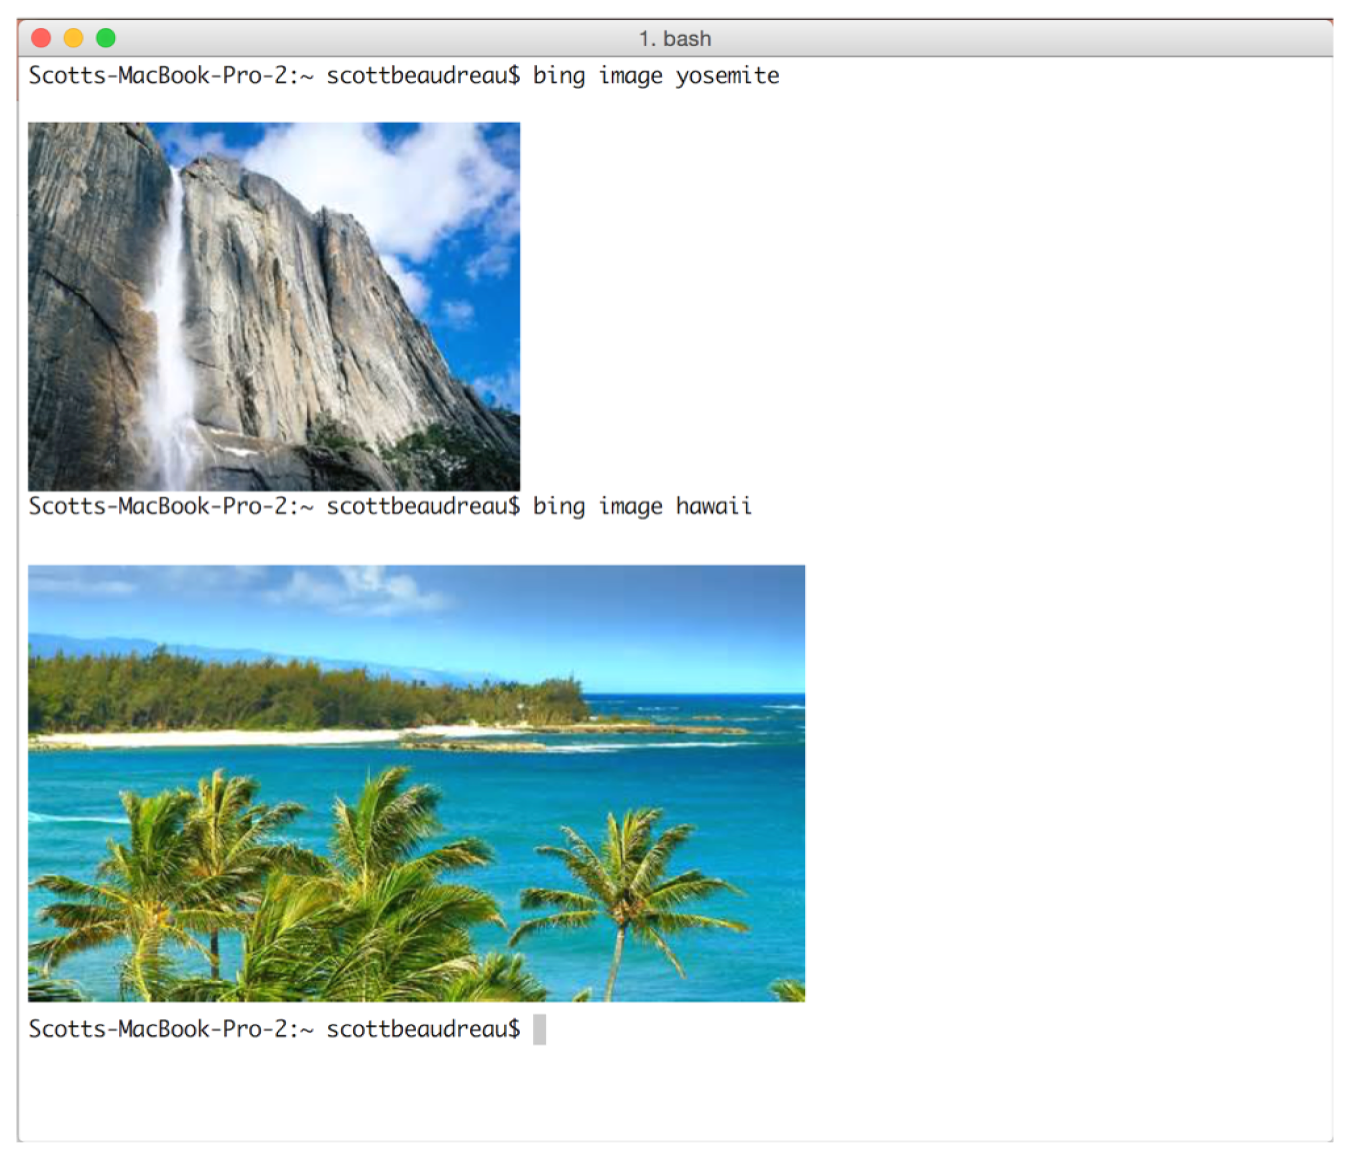
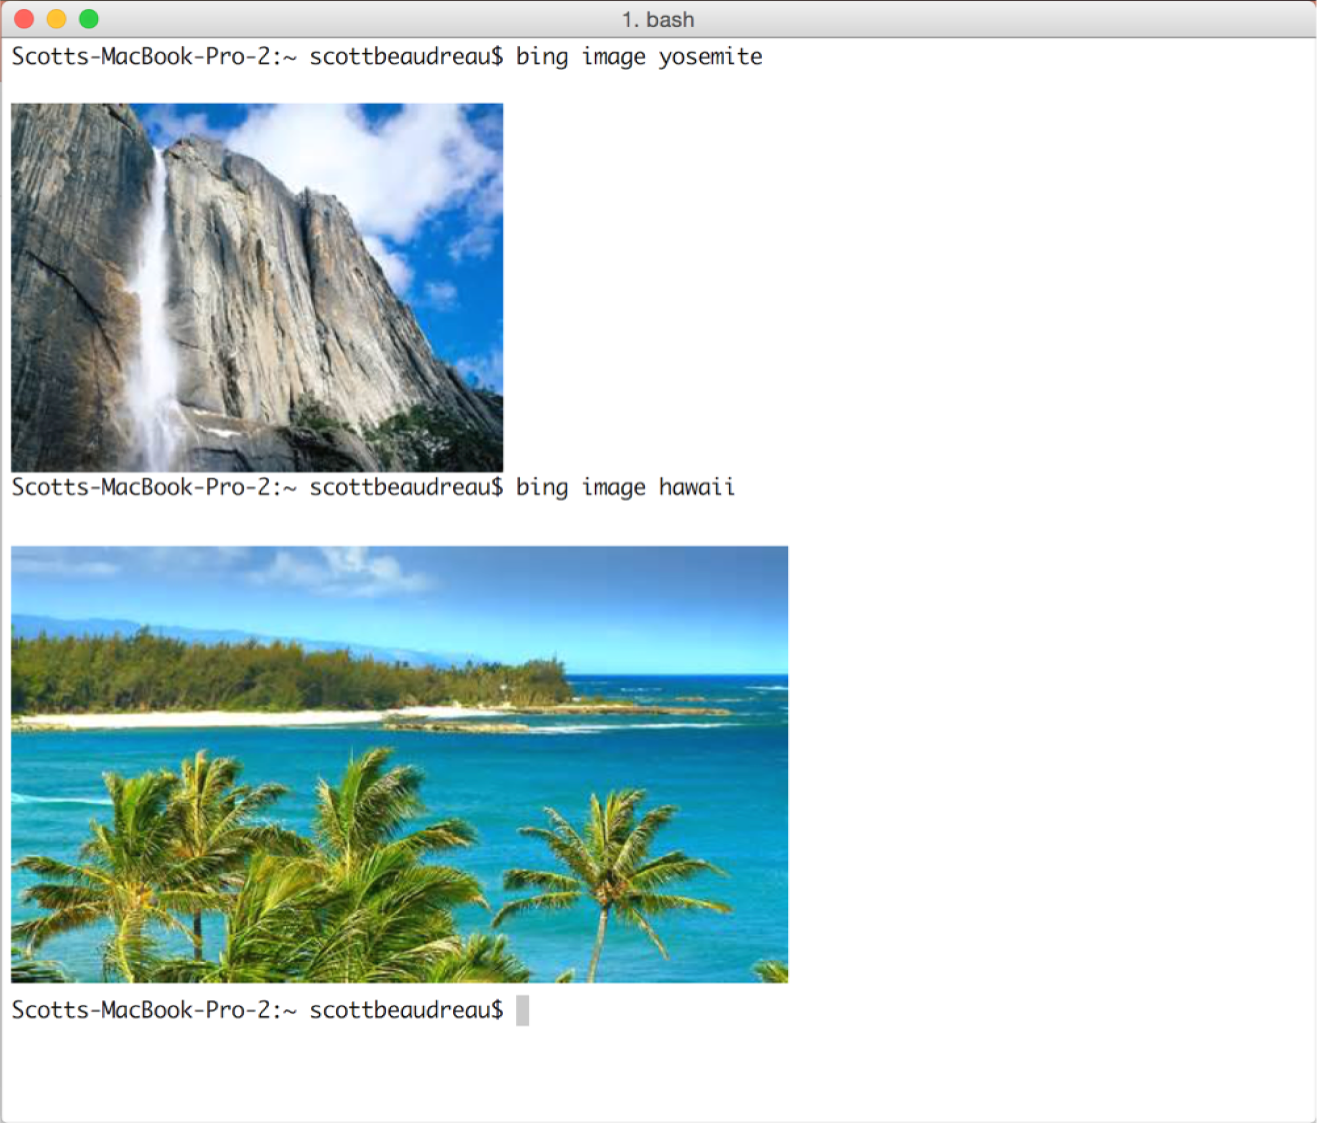
Minor change to add screen shots, update to version 0.1.7, and update the README.

Changed region(s): [[0.0, 0.0, 1.0, 1.0], [0.9954, 0.9973, 1.0, 1.0]]

diff --git a/README.md b/README.md
@@ -37,6 +37,9 @@ $ bing news azure aws google cloud
 $ bing related apache spark
 $ bing suggest gaussi
 ```
+
+![Example Screen Shot](https://github.com/scottbea/bing-cli/raw/master/docs/screen3.png)
+
 ## Configuration
 ### Subscribing to APIs
 Bing-CLI requires API keys from Microsoft to work properly. To get your API keys, you will need to sign up for [Microsoft Congnitive Services](https://www.microsoft.com/cognitive-services/en-us/subscriptions) by creating a new account with an email, or by signing up with your GitHub or LinkedIn account. 

diff --git a/CHANGELOG.md b/CHANGELOG.md
@@ -10,4 +10,9 @@ v0.1.5
 
 v0.1.6
 - added support for environment variables for the API Keys
-- updated the README with details on how to get a free subscription to the Bing APIs
+- updated the README with details on how to get a free subscription to the Bing API
+
+
+v0.1.7
+- added sample screen shots for usage
+- simplified the README instructions and added details for GraphicsMagick and Bing APIs
